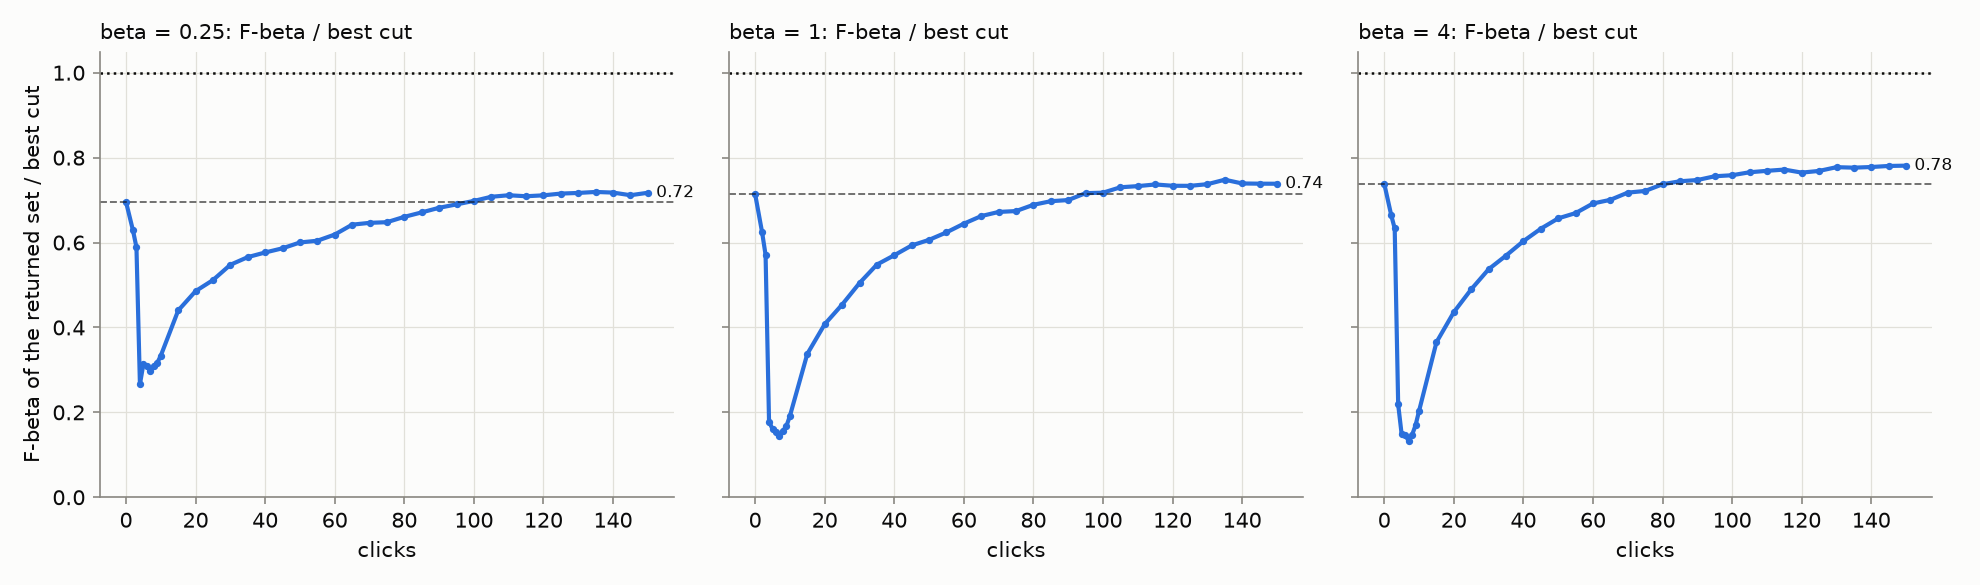
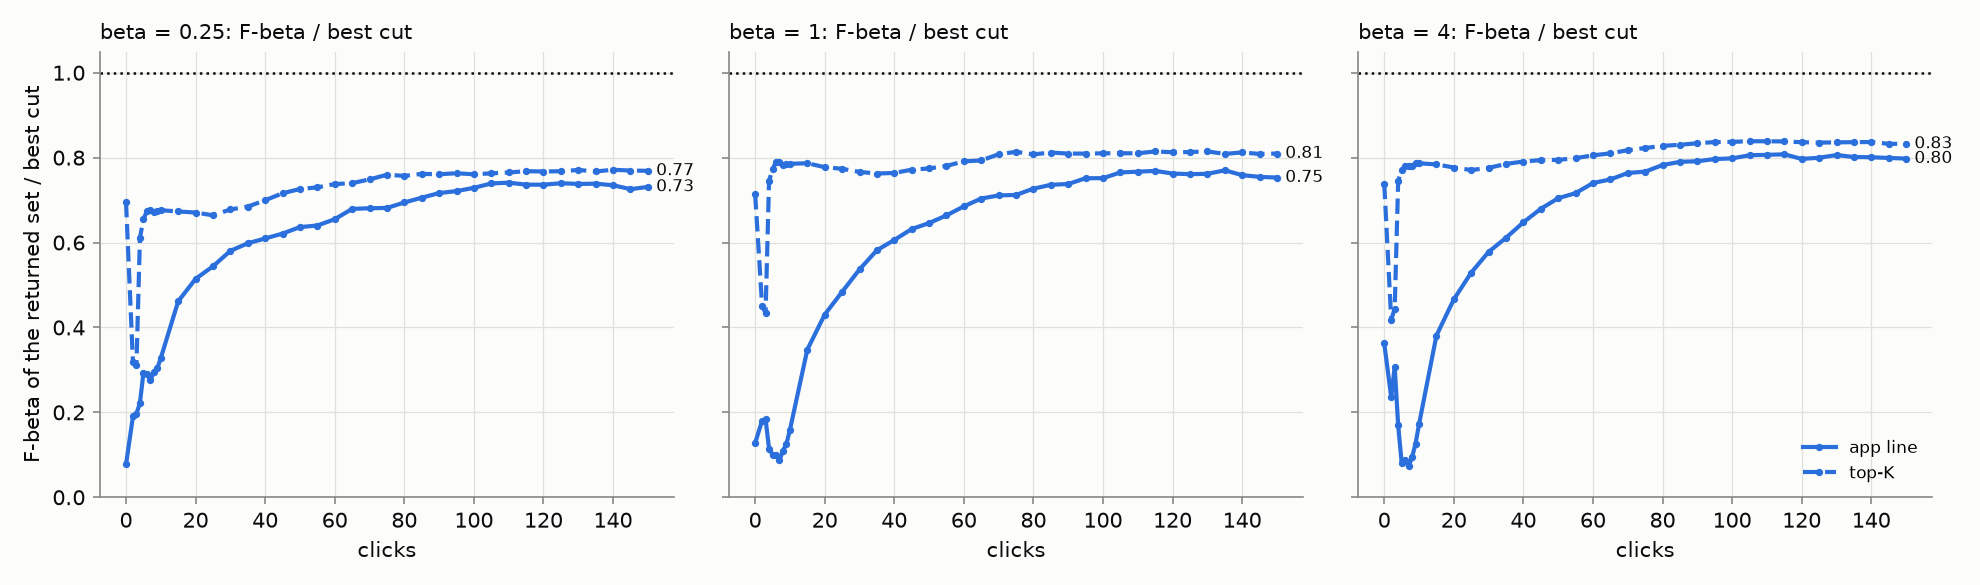
#4474: the report's comparisons read apples to apples
The headline's returned-set table and the early-session reading now
carry one rule per row: each sort's own line in the app, or top-K on
both. Under the app's lines the detector beats the text sort's blind
GMM cut (F1 0.02, ~4,500 returned) from click 4; under top-32 on both
its ranking overtakes the text sort's by click 6. The earlier "worse
than the typed query for 35-50 clicks" crossed rules and is withdrawn.
The full-label model's own line (~840 returned at precision 0.20) is
filed as #4486.

Claude-Session: https://claude.ai/code/session_01RYAFvig7c64CtSQuHpMxrk

diff --git a/docs/experiments/2026-10-04-state-of-the-app-binary-photo/perbeta_summary.md b/docs/experiments/2026-10-04-state-of-the-app-binary-photo/perbeta_summary.md
@@ -12,35 +12,53 @@ F-beta at the sessions' own beta of the withheld images above the app's threshol
 
 ## The returned set at each balance (rank frames)
 
-`fbeta` against `oracle_fbeta` (the best any cut of the same ranking reaches; `fb_share` = fbeta / oracle), with `k`, `precision` and `recall`. Points: text sort, 25 and 50 clicks, the end, full labels.
+One rule per row (owner, 2026-10-04: apples to apples). `app line`: each sort's own line in the app - the text sort's blind GMM cut, the detector's labels line (#4452), the full-label model's threshold. `top-K`: set-constant at the old cap (32 at beta <= 1, 128 above) on every sort. Compare the text sort and the detector within a rule, never across. `fbeta` against `oracle_fbeta` (the best any cut of the same ranking reaches; `fb_share` = fbeta / oracle), with `k`, `precision` and `recall`. Points: text sort, 25 and 50 clicks, the end, full labels.
 
-| sessions_at | arm | beta | point | k | precision | recall | fbeta | oracle_fbeta | fb_share | empty | runs |
-|---|---|---|---|---|---|---|---|---|---|---|---|
-| beta 0.25 | SigLIP binary | 0.25 | text | 32.0 | 0.487 | 0.313 | 0.471 | 0.556 | 0.696 | 0.0 | 720 |
-| beta 0.25 | SigLIP binary | 0.25 | 25 | 396.944 | 0.548 | 0.235 | 0.364 | 0.526 | 0.512 | 0.0 | 720 |
-| beta 0.25 | SigLIP binary | 0.25 | 50 | 382.047 | 0.543 | 0.4 | 0.466 | 0.582 | 0.6 | 0.0 | 720 |
-| beta 0.25 | SigLIP binary | 0.25 | final | 74.394 | 0.618 | 0.434 | 0.571 | 0.668 | 0.717 | 0.0 | 720 |
-| beta 0.25 | SigLIP binary | 0.25 | ceiling | 32.0 | 0.635 | 0.409 | 0.615 | 0.713 | 0.81 | 0.0 | 720 |
-| beta 1 | SigLIP binary | 1.0 | text | 32.0 | 0.487 | 0.313 | 0.38 | 0.45 | 0.714 | 0.0 | 720 |
-| beta 1 | SigLIP binary | 1.0 | 25 | 852.289 | 0.489 | 0.347 | 0.257 | 0.386 | 0.454 | 0.0 | 720 |
-| beta 1 | SigLIP binary | 1.0 | 50 | 826.715 | 0.461 | 0.507 | 0.383 | 0.457 | 0.606 | 0.0 | 720 |
-| beta 1 | SigLIP binary | 1.0 | final | 264.176 | 0.511 | 0.562 | 0.476 | 0.535 | 0.739 | 0.0 | 720 |
-| beta 1 | SigLIP binary | 1.0 | ceiling | 32.0 | 0.635 | 0.409 | 0.496 | 0.578 | 0.838 | 0.0 | 720 |
-| beta 4 | SigLIP binary | 4.0 | text | 128.0 | 0.207 | 0.531 | 0.486 | 0.566 | 0.739 | 0.0 | 720 |
-| beta 4 | SigLIP binary | 4.0 | 25 | 1227.139 | 0.366 | 0.45 | 0.314 | 0.479 | 0.49 | 0.0 | 720 |
-| beta 4 | SigLIP binary | 4.0 | 50 | 1404.897 | 0.35 | 0.611 | 0.447 | 0.545 | 0.657 | 0.0 | 720 |
-| beta 4 | SigLIP binary | 4.0 | final | 716.901 | 0.395 | 0.683 | 0.549 | 0.625 | 0.781 | 0.0 | 720 |
-| beta 4 | SigLIP binary | 4.0 | ceiling | 128.0 | 0.266 | 0.681 | 0.623 | 0.692 | 0.864 | 0.0 | 720 |
+| sessions_at | arm | rule | beta | point | k | precision | recall | fbeta | oracle_fbeta | fb_share | empty | runs |
+|---|---|---|---|---|---|---|---|---|---|---|---|---|
+| beta 0.25 | SigLIP binary | app line | 0.25 | text | 4507.602 | 0.011 | 0.913 | 0.011 | 0.556 | 0.077 | 0.0 | 720 |
+| beta 0.25 | SigLIP binary | app line | 0.25 | 25 | 971.272 | 0.546 | 0.332 | 0.362 | 0.526 | 0.514 | 0.0 | 720 |
+| beta 0.25 | SigLIP binary | app line | 0.25 | 50 | 754.232 | 0.543 | 0.46 | 0.466 | 0.582 | 0.616 | 0.0 | 720 |
+| beta 0.25 | SigLIP binary | app line | 0.25 | final | 185.024 | 0.618 | 0.449 | 0.571 | 0.668 | 0.724 | 0.0 | 720 |
+| beta 0.25 | SigLIP binary | app line | 0.25 | ceiling | 841.765 | 0.204 | 0.931 | 0.209 | 0.713 | 0.246 | 0.0 | 720 |
+| beta 0.25 | SigLIP binary | top-K | 0.25 | text | 32.0 | 0.487 | 0.313 | 0.471 | 0.556 | 0.696 | 0.0 | 720 |
+| beta 0.25 | SigLIP binary | top-K | 0.25 | 25 | 32.0 | 0.43 | 0.277 | 0.416 | 0.526 | 0.616 | 0.0 | 720 |
+| beta 0.25 | SigLIP binary | top-K | 0.25 | 50 | 32.0 | 0.506 | 0.326 | 0.489 | 0.582 | 0.682 | 0.0 | 720 |
+| beta 0.25 | SigLIP binary | top-K | 0.25 | final | 32.0 | 0.593 | 0.382 | 0.574 | 0.668 | 0.754 | 0.0 | 720 |
+| beta 0.25 | SigLIP binary | top-K | 0.25 | ceiling | 32.0 | 0.635 | 0.409 | 0.615 | 0.713 | 0.81 | 0.0 | 720 |
+| beta 1 | SigLIP binary | app line | 1.0 | text | 4507.602 | 0.011 | 0.913 | 0.021 | 0.45 | 0.128 | 0.0 | 720 |
+| beta 1 | SigLIP binary | app line | 1.0 | 25 | 1426.617 | 0.486 | 0.444 | 0.256 | 0.386 | 0.473 | 0.0 | 720 |
+| beta 1 | SigLIP binary | app line | 1.0 | 50 | 1198.9 | 0.46 | 0.566 | 0.384 | 0.457 | 0.632 | 0.0 | 720 |
+| beta 1 | SigLIP binary | app line | 1.0 | final | 374.806 | 0.51 | 0.576 | 0.476 | 0.535 | 0.747 | 0.0 | 720 |
+| beta 1 | SigLIP binary | app line | 1.0 | ceiling | 841.765 | 0.204 | 0.931 | 0.278 | 0.578 | 0.401 | 0.0 | 720 |
+| beta 1 | SigLIP binary | top-K | 1.0 | text | 32.0 | 0.487 | 0.313 | 0.38 | 0.45 | 0.714 | 0.0 | 720 |
+| beta 1 | SigLIP binary | top-K | 1.0 | 25 | 32.0 | 0.43 | 0.276 | 0.336 | 0.386 | 0.705 | 0.0 | 720 |
+| beta 1 | SigLIP binary | top-K | 1.0 | 50 | 32.0 | 0.504 | 0.325 | 0.394 | 0.457 | 0.724 | 0.0 | 720 |
+| beta 1 | SigLIP binary | top-K | 1.0 | final | 32.0 | 0.593 | 0.382 | 0.463 | 0.535 | 0.794 | 0.0 | 720 |
+| beta 1 | SigLIP binary | top-K | 1.0 | ceiling | 32.0 | 0.635 | 0.409 | 0.496 | 0.578 | 0.838 | 0.0 | 720 |
+| beta 4 | SigLIP binary | app line | 4.0 | text | 4507.602 | 0.011 | 0.913 | 0.15 | 0.566 | 0.362 | 0.0 | 720 |
+| beta 4 | SigLIP binary | app line | 4.0 | 25 | 1788.8 | 0.364 | 0.54 | 0.322 | 0.479 | 0.547 | 0.0 | 720 |
+| beta 4 | SigLIP binary | app line | 4.0 | 50 | 1768.949 | 0.35 | 0.669 | 0.455 | 0.545 | 0.706 | 0.0 | 720 |
+| beta 4 | SigLIP binary | app line | 4.0 | final | 825.131 | 0.395 | 0.697 | 0.551 | 0.625 | 0.796 | 0.0 | 720 |
+| beta 4 | SigLIP binary | app line | 4.0 | ceiling | 841.765 | 0.204 | 0.931 | 0.594 | 0.692 | 0.829 | 0.0 | 720 |
+| beta 4 | SigLIP binary | top-K | 4.0 | text | 128.0 | 0.207 | 0.531 | 0.486 | 0.566 | 0.739 | 0.0 | 720 |
+| beta 4 | SigLIP binary | top-K | 4.0 | 25 | 128.0 | 0.172 | 0.442 | 0.404 | 0.479 | 0.7 | 0.0 | 720 |
+| beta 4 | SigLIP binary | top-K | 4.0 | 50 | 128.0 | 0.202 | 0.517 | 0.473 | 0.545 | 0.74 | 0.0 | 720 |
+| beta 4 | SigLIP binary | top-K | 4.0 | final | 128.0 | 0.239 | 0.613 | 0.561 | 0.625 | 0.815 | 0.0 | 720 |
+| beta 4 | SigLIP binary | top-K | 4.0 | ceiling | 128.0 | 0.266 | 0.681 | 0.623 | 0.692 | 0.864 | 0.0 | 720 |
 
 ## The early dip
 
-The returned set against the typed query's set (the top 32, or 128 above beta 1), mean over runs: as a share of the best cut (which rises with the clicks), and in absolute F-beta with what the line returned (#4384: the line, not the ranking, is what trails the typed query early).
+The detector's returned set against the text sort's, the same rule on both sides (#4384): under `app line` the text sort's blind GMM cut against the detector's labels line; under `top-K` the old cap on both. F-beta, what each returned, and the click by which the detector's F-beta reaches the text sort's; then the share of the best cut, which rises with the clicks.
 
-| beta | typed query, share | lowest share | at click | share at 25 | back at the typed query's share by click | typed query's set, F | line F at 5 / 10 / 25 | returned median at 5 / 10 / 25 | line F at the typed query's by click |
-|---|---|---|---|---|---|---|---|---|---|
-| 0.25 | 0.696 | 0.266 | 4 | 0.512 | 100 | 0.471 | 0.19 / 0.23 / 0.42 | 1 / 1 / 12 | 35 |
-| 1 | 0.714 | 0.144 | 7 | 0.454 | 95 | 0.38 | 0.03 / 0.08 / 0.29 | 1 / 1 / 27 | 40 |
-| 4 | 0.739 | 0.133 | 7 | 0.49 | 85 | 0.486 | 0.03 / 0.11 / 0.35 | 1 / 1 / 56 | 50 |
+| beta | rule | text sort: F | text sort: returned | text sort: share of best | detector: F at 5 / 10 / 25 | detector: returned at 5 / 10 / 25 | detector F >= text sort's by click | lowest share | at click | share >= text sort's by click |
+|---|---|---|---|---|---|---|---|---|---|---|
+| 0.25 | app line | 0.011 | 4515.496 | 0.077 | 0.19 / 0.23 / 0.42 | 1 / 1 / 12 | 2 | 0.191 | 2 | 2 |
+| 0.25 | top-K | 0.471 | 32.0 | 0.696 | 0.45 / 0.49 / 0.48 | 32 / 32 / 32 | 6 | 0.311 | 3 | 40 |
+| 1 | app line | 0.021 | 4515.496 | 0.128 | 0.03 / 0.08 / 0.29 | 1 / 1 / 27 | 4 | 0.088 | 7 | 10 |
+| 1 | top-K | 0.38 | 32.0 | 0.714 | 0.36 / 0.40 / 0.38 | 32 / 32 / 32 | 6 | 0.434 | 3 | 4 |
+| 4 | app line | 0.15 | 4515.496 | 0.362 | 0.03 / 0.11 / 0.35 | 1 / 1 / 56 | 15 | 0.073 | 7 | 15 |
+| 4 | top-K | 0.486 | 128.0 | 0.739 | 0.45 / 0.48 / 0.46 | 128 / 128 / 128 | 40 | 0.418 | 2 | 4 |
 
 ## The spot check
 

diff --git a/docs/experiments/2026-10-04-state-of-the-app-binary-photo/REPORT.md b/docs/experiments/2026-10-04-state-of-the-app-binary-photo/REPORT.md
@@ -62,41 +62,54 @@ that aimed at 1/4, and so on.
    the check. (An earlier draft read the 100-to-150 gain as +0.002 to
    +0.005 off two columns with different denominators: the 26 sessions
    whose first Good came after click 100 have no line at 100.)
-3. **For the first 35 to 50 clicks, the app returns a worse set than the
-   typed query's top 32 would, and the line is why.** At beta 1 the line
-   returns a median of **one image for the first 15 clicks** (F1 0.03 at
-   clicks 4 to 7, 0.22 at 15) and reaches the typed query's F1 of 0.38 only
-   at click 40 (35 at beta 1/4, 50 at beta 4). The ranking is not the cause:
-   its best cut matches the typed query's best cut from click 7 (0.44 vs
-   0.45), and AP's dip (0.42 → 0.26 at click 4, back by 43) is the same as in
-   the 2026-09-30 review, whose count line kept 32 and was at the typed
-   query's level from click 10. The cause is the labels line (#4452) under
-   the opening's labels: the first Goods come from the top of the text sort,
-   so the class model puts positives far above where most of them sit, and
-   Find's prevalence estimate reads 0.0000 for 15 clicks against a true
-   0.43%. #4452 was priced at click 150 and on Find corpora, never on the
-   early session. Measured as a share of the best cut, the set is back at the
-   typed query's share only by click 85 to 100, because the best cut keeps
-   rising (`returned_at_own_beta.png`). The ranking's own dip is #4384.
+3. **The early session, read apples to apples (owner, 2026-10-04): one
+   thresholding rule on both sorts.** Under each sort's **own line in the
+   app**, the text sort's blind GMM cut returns about 4,500 of the 10,900
+   images (F1 0.02), and the detector's labels line returns a median of
+   **one image for its first 15 clicks** (F1 0.03 at clicks 4 to 7, 0.22 at
+   15). Both are useless early, and the detector's is the less bad one from
+   click 4 at beta 1 (2 at 1/4, 15 at 4). Under **set-constant top 32 on
+   both** (128 at beta 4), the detector's ranking overtakes the text sort's
+   at click 6 (0.40 at click 10 against the text sort's 0.38; at beta 4,
+   click 40). Earlier drafts compared the detector's line with the text
+   sort's top 32 and read "worse than the typed query for 35 to 50 clicks";
+   that crossed rules and is withdrawn. What stands: for about 15 clicks the
+   labels line (#4452) has no idea how many positives there are. The opening
+   takes its Goods from the top of the text sort, the class model puts
+   positives far above where most of them sit, and Find's prevalence
+   estimate reads 0.0000 against a true 0.43%, so the cut keeps the one
+   image it is surest of. The ranking is not the cause: its best cut matches
+   the text sort's from click 7, and AP's dip (0.42 → 0.26 at click 4, back
+   by 43) is the same as in the 2026-09-30 review. #4452 was priced at click
+   150 and on Find corpora, never on the early session. The ranking's own
+   dip is #4384.
 
-![The returned set's share of the best cut, per preset](figures/returned_at_own_beta.png)
+![The returned set's share of the best cut, per preset; solid: each sort's own line, dashed: top-K on both](figures/returned_at_own_beta.png)
 
-| preset | point | F-beta | share of best cut | precision | recall | returned, median | p90 |
+**The returned set, one rule per row.** "App line" is what each sort's own
+line in the app returns: the text sort's blind GMM cut, the detector's labels
+line, and the full-label model's threshold as the harness applied it.
+"Top-K" is set-constant at the old cap on every sort: 32 at beta ≤ 1, 128 at
+beta 4. Compare within a rule, never across. Detector rows are the last click
+before the check.
+
+| preset | rule | text sort | 25 clicks | 50 clicks | 150 clicks | full labels | returned at 150, median / text sort |
 |---:|---|---:|---:|---:|---:|---:|---:|
-| 1/4 | typed query | 0.47 | 0.70 | 0.49 | 0.31 | 32 | 32 |
-| 1/4 | 150 clicks | 0.57 | 0.72 | 0.62 | 0.43 | 35 | 130 |
-| 1/4 | full labels | 0.62 | 0.81 | 0.64 | 0.41 | 32 | 32 |
-| 1 | typed query | 0.38 | 0.71 | 0.49 | 0.31 | 32 | 32 |
-| 1 | 150 clicks | 0.48 | 0.74 | 0.51 | 0.56 | 48 | 490 |
-| 1 | full labels | 0.50 | 0.84 | 0.64 | 0.41 | 32 | 32 |
-| 4 | typed query | 0.49 | 0.74 | 0.21 | 0.53 | 128 | 128 |
-| 4 | 150 clicks | 0.55 | 0.78 | 0.40 | 0.68 | 79 | 1,400 |
-| 4 | full labels | 0.62 | 0.86 | 0.27 | 0.68 | 128 | 128 |
+| 1/4 | app line | 0.01 | 0.36 | 0.47 | **0.57** | 0.21 | 35 / 4,500 |
+| 1/4 | top 32 | 0.47 | 0.42 | 0.49 | **0.57** | 0.62 | 32 / 32 |
+| 1 | app line | 0.02 | 0.26 | 0.38 | **0.48** | 0.28 | 48 / 4,500 |
+| 1 | top 32 | 0.38 | 0.34 | 0.39 | **0.46** | 0.50 | 32 / 32 |
+| 4 | app line | 0.15 | 0.32 | 0.46 | **0.55** | 0.59 | 79 / 4,500 |
+| 4 | top 128 | 0.49 | 0.40 | 0.47 | **0.56** | 0.62 | 128 / 128 |
 
-These rows come from the rank frames at the last click before the check. The
-typed query and the full-label model drew no line in a session, so they are
-read at the balance's old cap (32 at beta ≤ 1, 128 above). They show where a
-sort's top set lands, not what the app would return.
+Two things the rules show together. Under the app's own lines the detector
+wins at every point from click 4 on, because the text sort's line returns
+most of the corpus. Under top-K the ranking alone is compared, and 150
+clicks of detector beat the text sort by 0.08 to 0.10 at every preset. The
+full-label model's own line is the odd row: at beta 1 it returns about 840
+images at precision 0.20 (F1 0.28 against a best cut of 0.58), which says
+the labels line mis-sizes its set even when every label is known; that is
+filed as a finding, not a fix.
 
 **The ranking** barely depends on the preset (the beta-1 sessions):
 
@@ -255,11 +268,16 @@ Three of these four were harmful in the 2026-10-01 review too. They are what
 ## What to A/B next
 
 - **The early session's line (#4384, on the returned set):** the labels line
-  returns one image for 15 clicks and trails the typed query's top 32 for 35
-  to 50. A floor of the old cap under the line, priced offline from the rank
-  frames, matches the old count line from click 7 and keeps the line's late
-  gains (0.49–0.50 at 100–150 clicks against 0.47–0.48 for the cap alone),
-  but it brings back the count on an empty corpus that #4452 removed.
+  returns one image for its first 15 clicks because its prevalence estimate
+  collapses under the opening's labels. Apples to apples it is still less
+  bad than the text sort's own line from click 4, and the ranking beneath it
+  overtakes the text sort's by click 6. The fix is an estimate that stays
+  honest when the only Goods so far are the easiest ones; a set-constant
+  floor would hide it and does not scale with the Find corpus (owner).
+- **The full-label model's own line under-sizes its set.** With every label
+  known it returns about 840 images at F1 0.28 against a best cut of 0.58
+  (beta 1). The line's model of where positives sit is off even with
+  perfect labels.
 - **#4482: priced.** Per vote, check-style picks are worth about twice
   Autopilot's late clicks (+0.047 for 22 picks at click 100 against +0.023
   for 50 clicks), and they add up rather than substitute.
